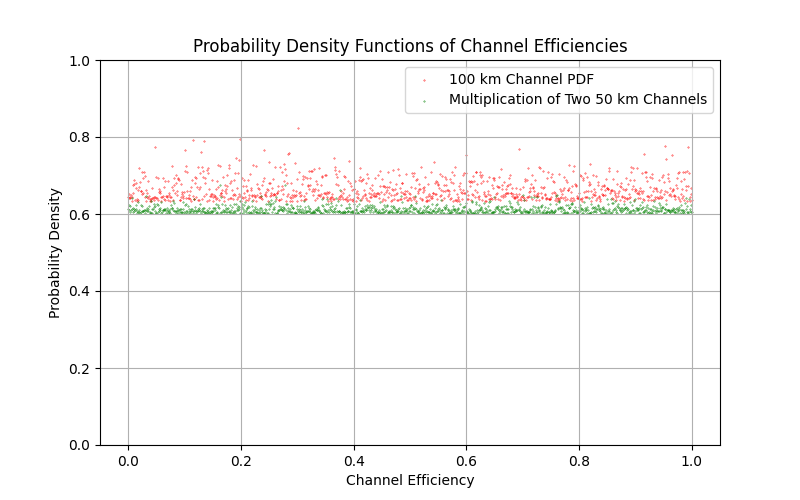
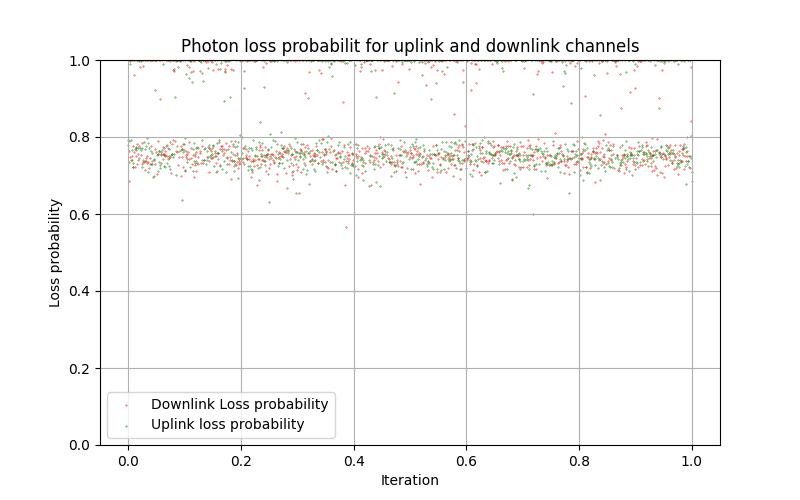
commit meeting

diff --git a/import numpy as np.py b/import numpy as np.py
@@ -1,6 +1,6 @@
 import numpy as np
 import matplotlib.pyplot as plt
-from network import HorizontalChannel, DownlinkChannel
+from network import HorizontalChannel, DownlinkChannel, UplinkChannel
 import cn2
 # Example parameters
 # Define the channel length in km
@@ -13,6 +13,44 @@ eta_ch = np.linspace(1e-7, 1, array_size)  # Transmission efficiency values
 # Cn2 for the horizontal channel (you can adjust this if needed)
 Cn2_horizontal = cn2.hufnagel_valley(135000, 10.0, 9.6e-14)
 
+downchannel = DownlinkChannel(W0=0.1, #converted to m
+                                                            rx_aperture=0.3, #converted to m
+                                                            obs_ratio=0.3,
+                                                            n_max=150,
+                                                            Cn0=9.6e-14,
+                                                            wind_speed=10,
+                                                            wavelength=1e-9*1550, #converted to m
+                                                            ground_station_alt=0.02, #converted to km
+                                                            aerial_platform_alt=35,
+                                                            zenith_angle=0,
+                                                            pointing_error=0,
+                                                            tracking_efficiency=1,
+                                                            Tatm=1,
+                                                            integral_gain=1,
+                                                            control_delay=2e-3,
+                                                            integration_time=1e-3,
+                                                            )
+downlink_errors=downchannel._compute_loss_probability(length=35,n_samples=array_size)
+ 
+upchannel = UplinkChannel(D_tx=0.4,
+                                                            R_rx=0.4, 
+                                                            obs_ratio=0.3,
+                                                            n_max=150,
+                                                            Cn0=9.6e-14,
+                                                            wind_speed=10,
+                                                            wavelength=1e-9*1550, #converted to m
+                                                            ground_station_alt=0.02, #converted to km
+                                                            aerial_platform_alt=35,
+                                                            zenith_angle=0,
+                                                            pointing_error=0,
+                                                            tracking_efficiency=1,
+                                                            Tatm=1,
+                                                            integral_gain=1,
+                                                            control_delay=2e-3,
+                                                            integration_time=1e-3,
+                                                            )
+uplink_errors=upchannel._compute_loss_probability(length=35,n_samples=array_size)
+            
 # HorizontalChannel class instantiation (assuming this class is defined)
 horiz = HorizontalChannel(
     W0=0.4, 
@@ -35,15 +73,15 @@ channel_pdf_50_multiplied = channel_pdf_50
 plt.figure(figsize=(8, 5))
 
 # Plot the 100 km channel PDF
-plt.scatter(eta_ch, channel_pdf_100, label="100 km Channel PDF", color="r", s=0.1)
+plt.scatter(eta_ch, downlink_errors, label="Downlink Loss probability", color="r", s=0.1)
 
 # Plot the multiplication of two 50 km channels
-plt.scatter(eta_ch, channel_pdf_50_multiplied, label="Multiplication of Two 50 km Channels", color="g", s=0.1)
+plt.scatter(eta_ch, uplink_errors, label="Uplink loss probability", color="g", s=0.1)
 
 # Add labels and title
-plt.xlabel("Channel Efficiency")
-plt.ylabel("Probability Density")
-plt.title("Probability Density Functions of Channel Efficiencies")
+plt.xlabel("Iteration")
+plt.ylabel("Loss probability")
+plt.title("Photon loss probabilit for uplink and downlink channels")
 plt.ylim(0,1)
 # Add a legend to distinguish the curves
 plt.legend()

diff --git a/network.py b/network.py
@@ -2295,7 +2295,7 @@ class CachedChannel(QuantumErrorModel):
             if qubit is None:
                 continue
             prob_loss = random.choice(self.loss_array)
-
+            print(prob_loss)
             self.lose_qubit(qubits, idx, prob_loss, rng=self.properties['rng'])
 
 class UplinkChannel(DownlinkChannel):

diff --git a/main.py b/main.py
@@ -151,7 +151,7 @@ for value in vals:
     report_info[value] = net.get_info_report()
 
     print('----------------')
-
+    print(dc.items())
     #Acumulate results in general dataframe in case we want evolution
     for key,detail in dc.items():
         if detail[0] == 'Capacity':
